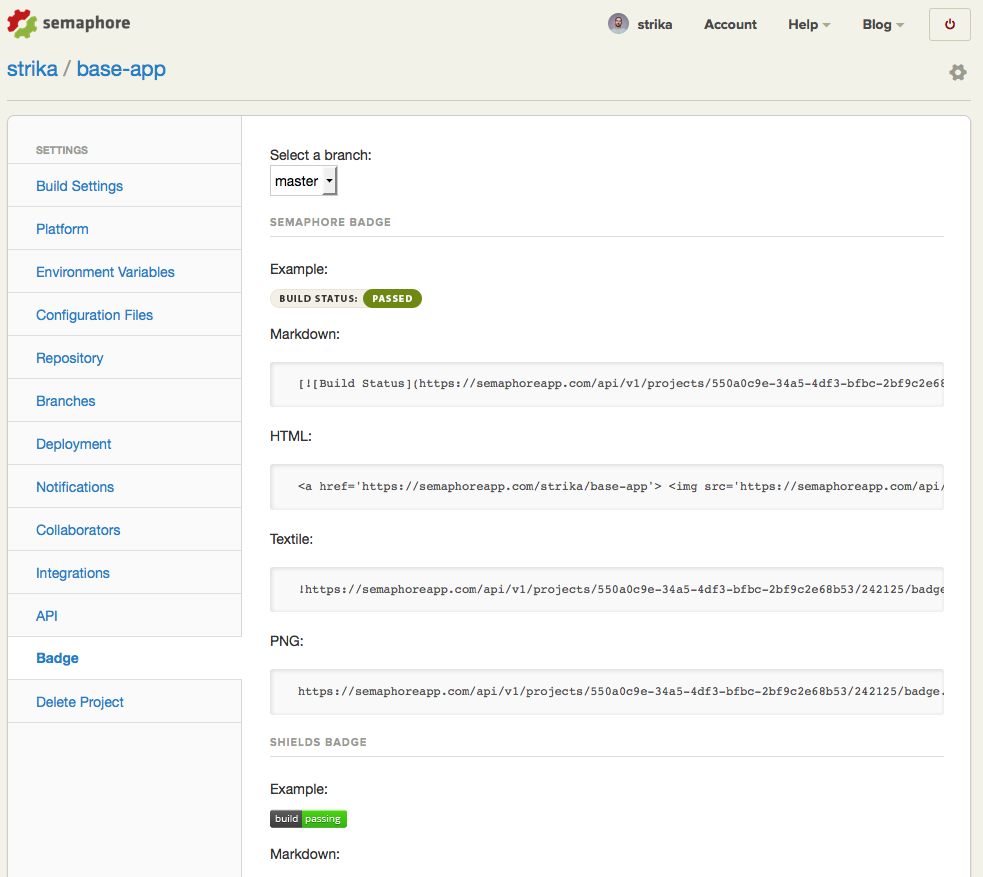
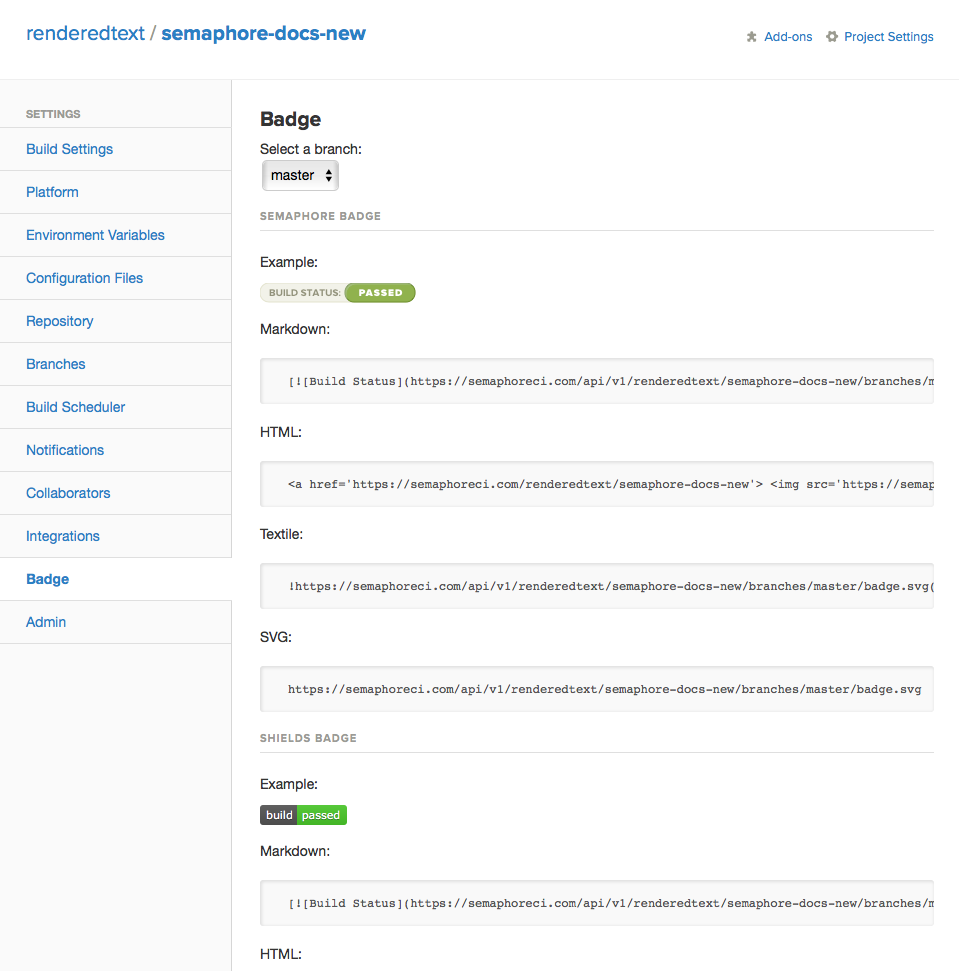
Refresh the how to get a badge page.

diff --git a/source/docs/how-to-get-build-badge.md b/source/docs/how-to-get-build-badge.md
@@ -6,14 +6,17 @@ category: Getting started
 
 Semaphore features nice looking embeddable badges that you can add to a
 project's Readme, homepage or other places to make the project build status more
-accessible for developers and users.
+visible to developers, contributors and users.
 
-You can choose between a Semaphore style and generic [Shields](http://shields.io/) style badge.
+You can choose between Semaphore and [Shields](http://shields.io/) style badge.
 
 <img src="/docs/assets/img/semaphore-badge/semaphore-badge-example.png" class="img-responsive">
 
-Head to the Badge section of the project settings to find the embeddable code,
-available in different flavors: Markdown, HTML, Textile and direct link to a
-PNG.
+Semaphore provides badge embed codes for Markdown, HTML and Textile, as well as
+a direct link to a PNG image. To copy the code for your project, go to Project
+Settings > Badge tab.
 
 <img src="/docs/assets/img/settings/settings-badge.png" class="img-responsive">
+
+Once you have set up your badge, its' image will always automatically represent
+the current status of your build.
